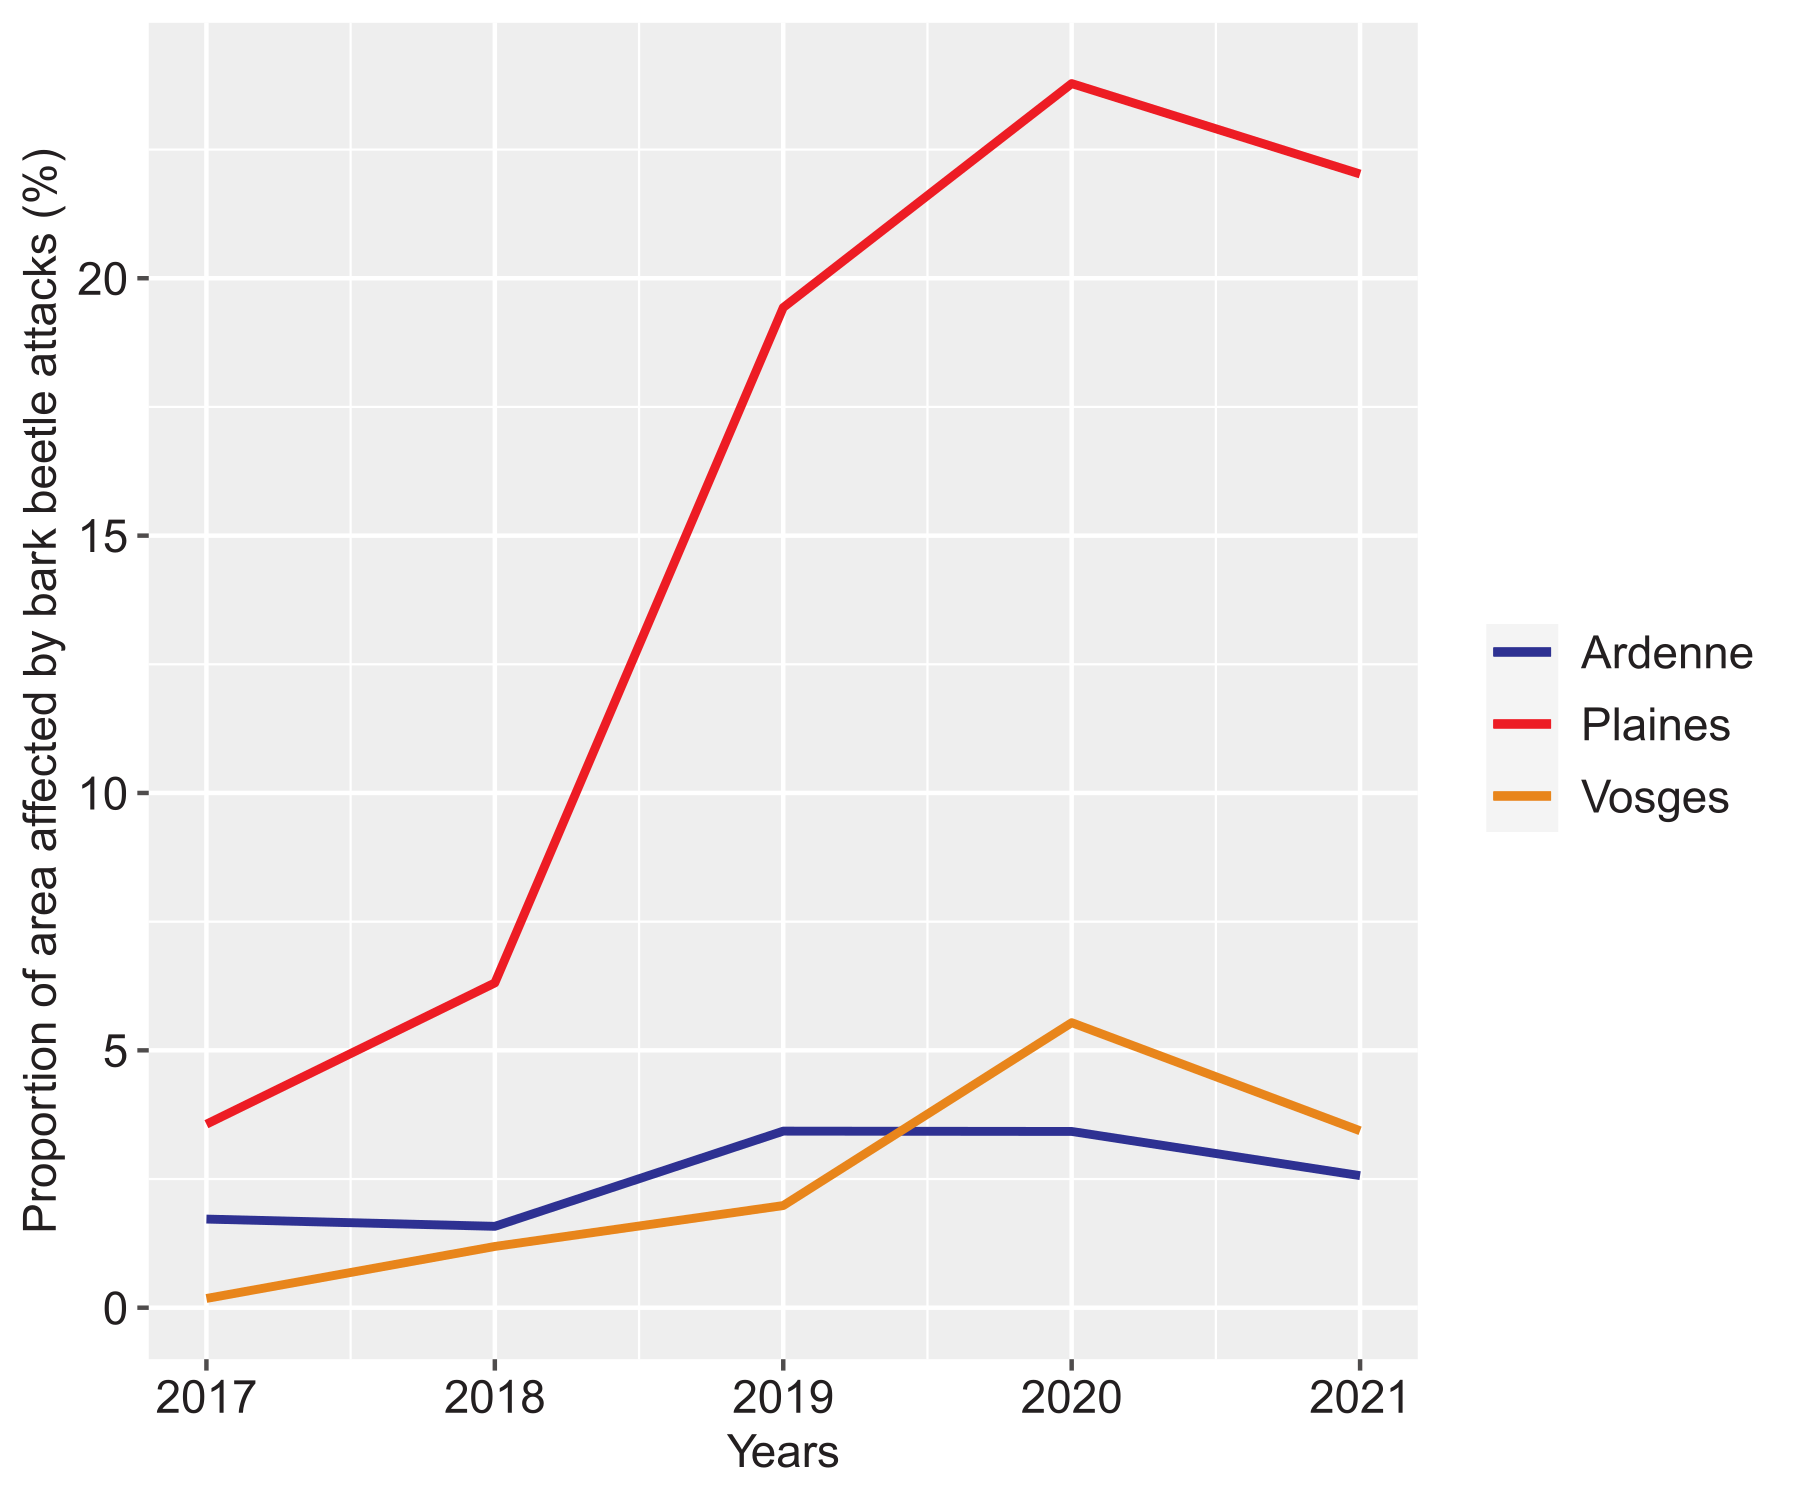
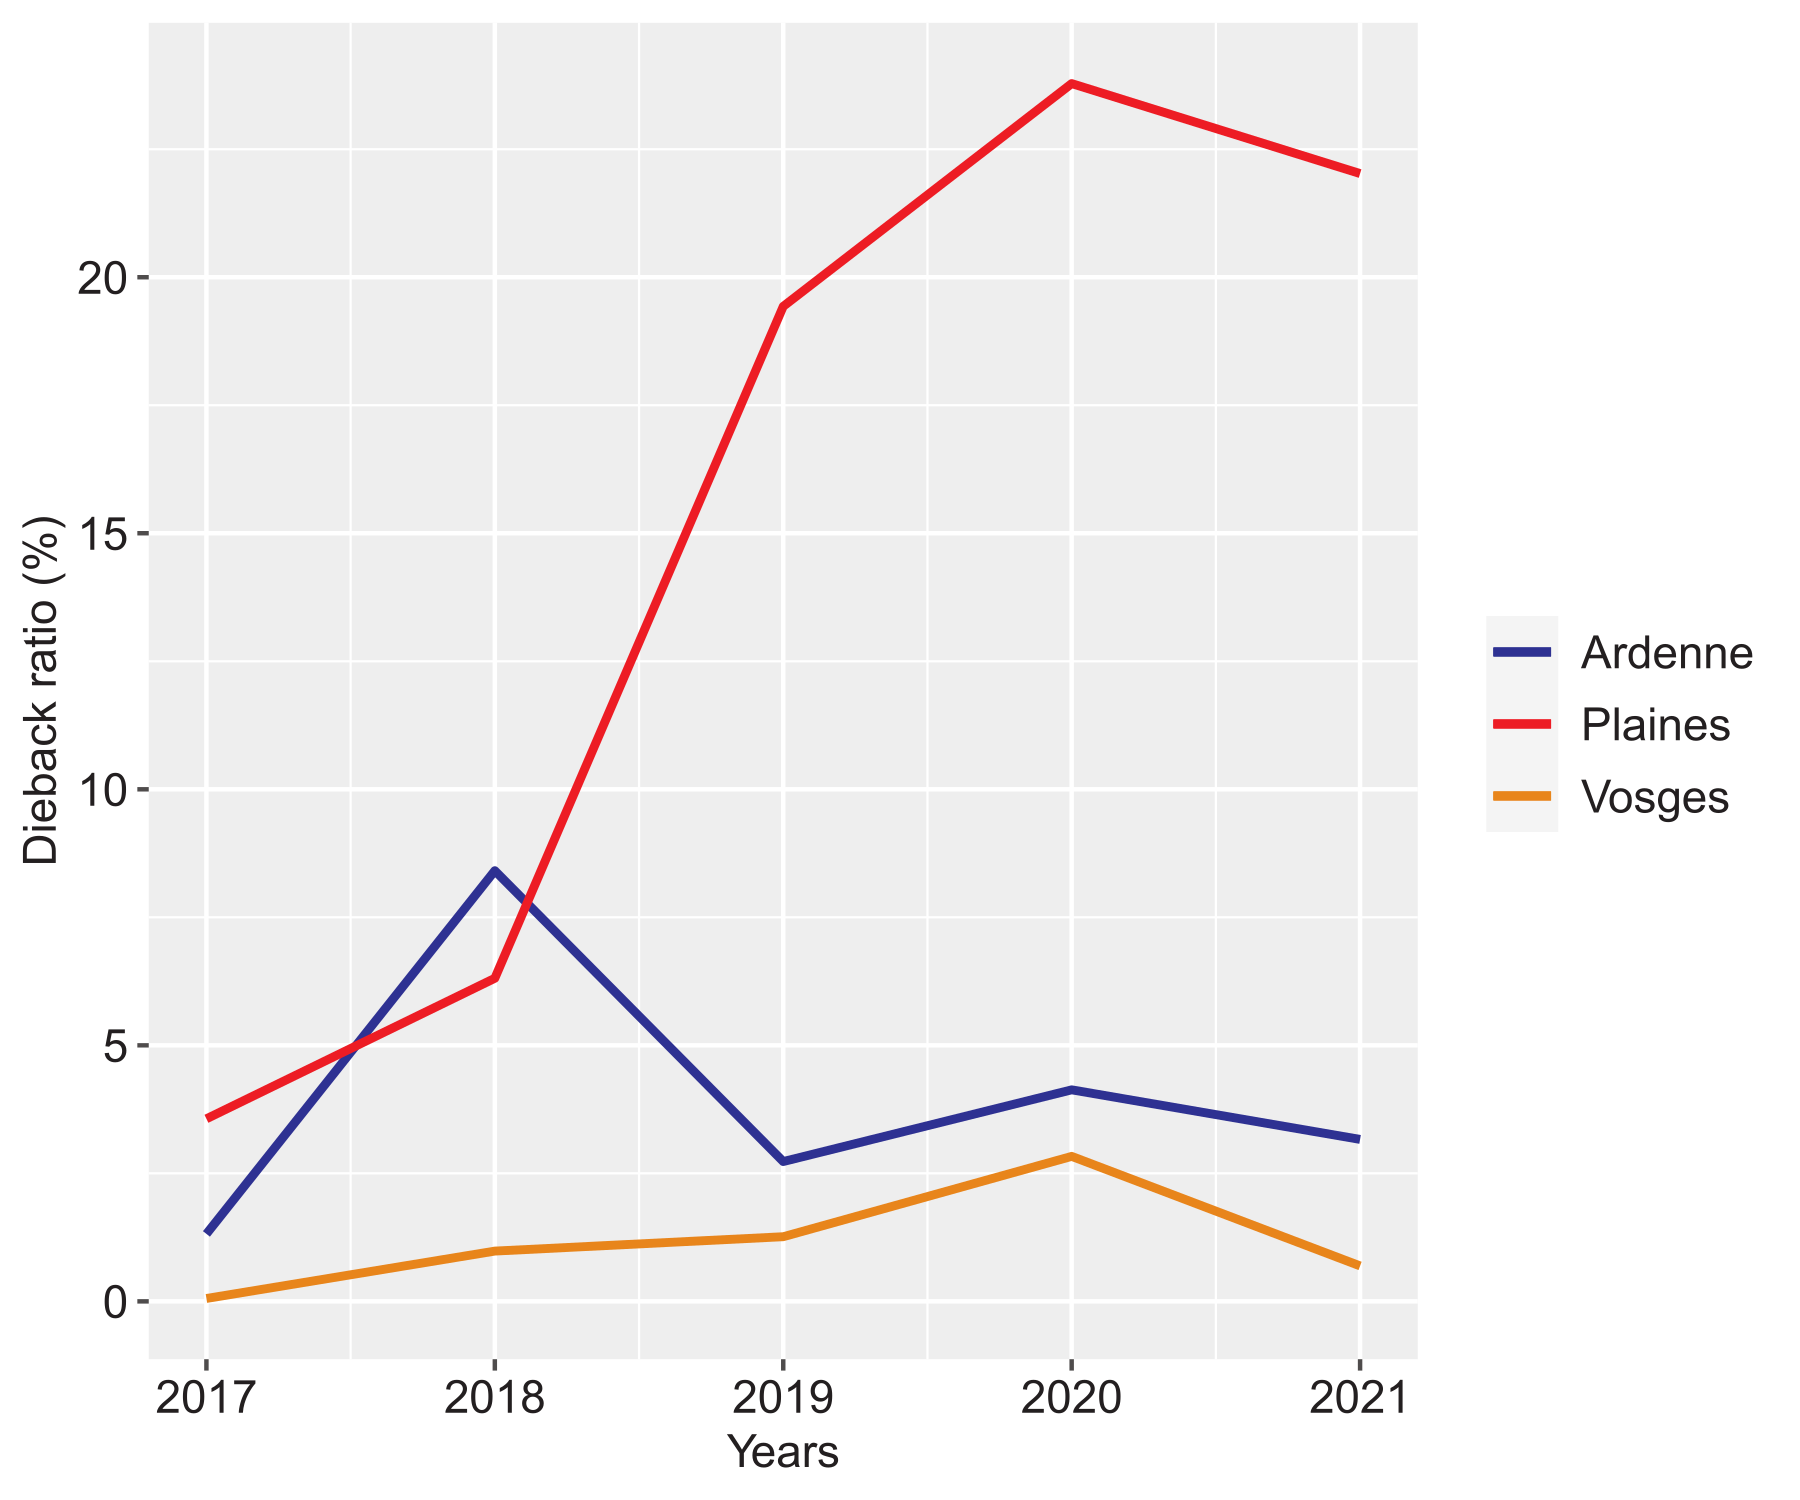
maj resultats

diff --git a/articleSco/2022-ScolytesArdenneVosges.tex b/articleSco/2022-ScolytesArdenneVosges.tex
@@ -298,18 +298,18 @@ The first major dieback took place in the Plains in 2018.
 One year later, the important damage have begun in 2019 in the Vosges and in the Ardenne.  
 The area killed by this resinous pest is detailed in table \ref{tab_recap}.
 %add reference crise 5 ans
-The area of Norway spruce killed by bark beetle in Ardenne is 13 435 ha.
-The maximum of the ratio of area touched by bark beetles during crisis peak in 2019 is 3,4\%. 
-A begin of decrease affected area is started in 2021.
+The area of Norway spruce killed by bark beetle in Ardenne is 22.520 ha.
+The maximum of the ratio of area touched by bark beetles during crisis peak in 2018 is 8,4\%. 
+A begin of decrease affected area is started in 2019.
 
-In the Vosges, there is 3218 ha killed by bark beetle.
-However, the maximum ratio of area affected by this insect is 5,5\%.
+In the Vosges, there is 4.248 ha killed by bark beetle.
+However, the maximum ratio of area affected by this insect is 2,8 \%.
 At the peak of the crisis the Vosges are proportionally more affected than the Ardenne.
 
 The Plains climatic area is  with the most area and proportion of area affected.
 This regions have three times more area touched by bark beetle than the Vosges.
 The Plains region reached the maximum of area affected by bark beetles in 2020. 
-The peak of proportion of area impacted is reached at 23,7\%.
+The peak of proportion of area impacted is reached at 22 \%.
 In total, more than half of the spruce stands were affected by bark beetles in this area.
 
 % add syrface
@@ -321,9 +321,9 @@ In total, more than half of the spruce stands were affected by bark beetles in t
 \begin{tabular}{|l|l|l|}
 \hline
 Region   & \begin{tabular}[c]{@{}l@{}}Total Norway spruce \\ area killed by bark beetle (2017-2021)\end{tabular} & \begin{tabular}[c]{@{}l@{}}Total Norway spruce \\ area before crisis\end{tabular} \\ \hline
-Plains  & 13665 ha                                                                                              & 25 552 ha                                                                         \\ \hline
-Ardenne & 13435 ha                                                                                              & 101 600 ha                                                                        \\ \hline
-Vosges   & 3218,71 ha                                                                                               & 26 327 ha                                                                        \\ \hline
+Plains  & 12.723 ha                                                                                              & 24.462 ha                                                                         \\ \hline
+Ardenne & 22.520 ha                                                                                              & 120.365 ha                                                                        \\ \hline
+Vosges   & 4.248 ha                                                                                               & 75.067 ha                                                                        \\ \hline
 \end{tabular}
 \end{table}
 
@@ -364,7 +364,7 @@ The variation of the probability of presence of bark beetles in the three groups
 
 \begin{figure}[htbp] 
 \centering
-	\includegraphics[width=\textwidth]{synthese_color_06_2022.png}
+	\includegraphics[width=\textwidth]{synthese_color_11_2022.png}
      \caption{The altitude has been subdivided into the same 12 altitude classes for the three regions. 
 The graphs corresponding to the variation of the probability of presence in Ardenne (blue) are in the upper part of the Figure,the Vosges (Orange) in middle part and for the Plains (red) in the lower part.
 }
@@ -439,16 +439,17 @@ The south-facing slope are more affected.
 \begin{table}[htbp] 
 \begin{tabular}{|l|l|l|l|l|}
 \hline
-Climatic area  & Thermal sector     & \begin{tabular}[c]{@{}l@{}}Cumulative area affected \\ by bark beetle (ha).\end{tabular} & \begin{tabular}[c]{@{}l@{}}Norway spruce area\\ before crisis (ha).\end{tabular} & Probability of presence (\%) \\ \hline
-Plains  & North-facing slope & 1592                                                                                     & 2660                                                                             & 59,8                         \\ \hline
-Plains  & Plateau            & 11337                                                                                    & 21450                                                                            & 52,8                         \\ \hline
-Plains  & South-facing slope & 738                                                                                      & 1442                                                                             & 51,1                         \\ \hline
-Ardenne & North-facing slope & 2396                                                                                     & 14862                                                                            & 16,1                         \\ \hline
-Ardenne & Plateau            & 9877                                                                                     & 79260                                                                            & 12,4                         \\ \hline
-Ardenne & South-facing slope & 1165                                                                                     & 7475                                                                             & 15,6                         \\ \hline
-Vosges  & North-facing slope & 1392                                                                                     & 35690                                                                            & 3,9                          \\ \hline
-Vosges  & Plateau            & 1280                                                                                     & 25052                                                                            & 5,1                          \\ \hline
-Vosges  & South-facing slope & 546                                                                                      & 12975                                                                            & 4,2                          \\ \hline
+Climatic area  & Thermal sector     & \begin{tabular}[c]{@{}l@{}}Cumulative area affected \\ by bark beetle (ha).\end{tabular} & \begin{tabular}[c]{@{}l@{}}Norway spruce area\\ before crisis (ha).\end{tabular} & Dieback ratio (\%) \\ \hline
+Plains  & North-facing slope & 1.582                                                                                     & 2.561                                                                             & 57,8                         \\ \hline
+Plains  & Plateau            & 10.572                                                                                    & 20.527                                                                           & 51,5                         \\ \hline
+Plains  & South-facing slope & 670                                                                                      & 1373                                                                             & 48,7                         \\ \hline
+Ardenne & North-facing slope & 3.000
+ & 14.190                                                                            & 21,1                         \\ \hline
+Ardenne & Plateau            & 17.325                                                                                     & 96.511                                                                            & 17,9                         \\ \hline
+Ardenne & South-facing slope & 2.198 & 9.665 & 22.7                        \\ \hline
+Vosges  & North-facing slope & 1791                                                                                     & 36314                                                                           & 4,9                         \\ \hline
+Vosges  & Plateau            & 1770                                                                                    & 25553                                                                            & 6,9                          \\ \hline
+Vosges  & South-facing slope & 688                                                                                      & 13220                                                                           & 5,2                         \\ \hline
 \end{tabular}
 \end{table}
 
